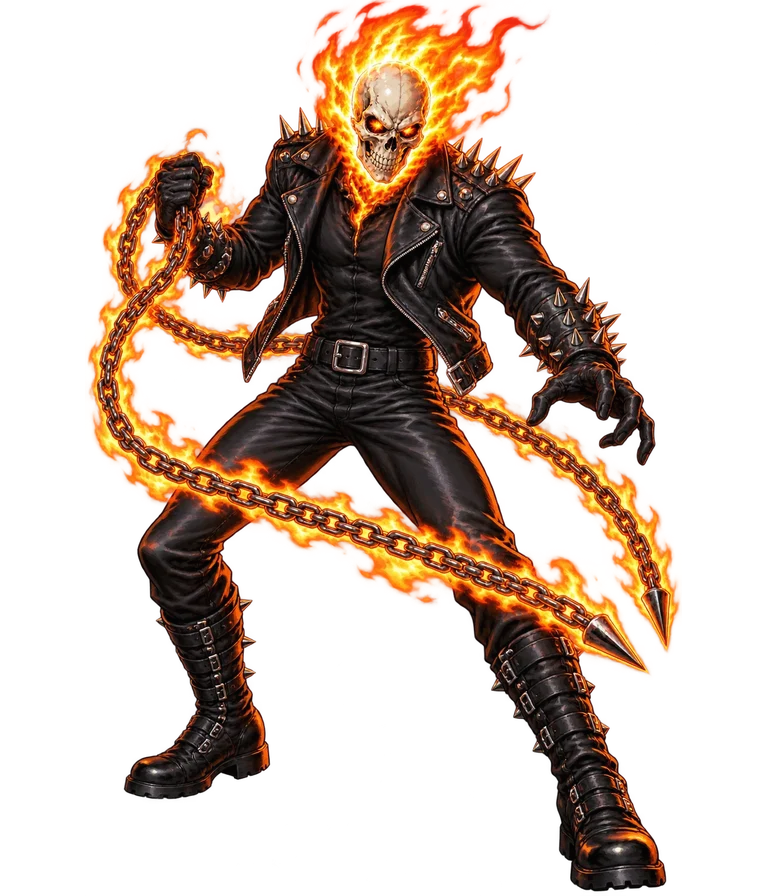
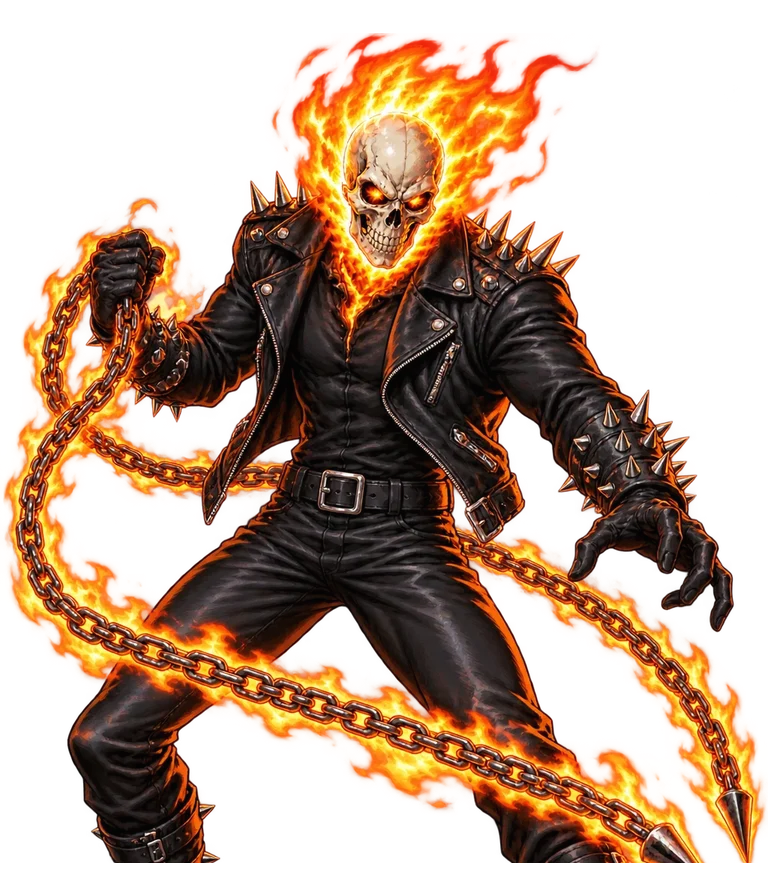
Frame nine portraits closer for game cards

diff --git a/tools/portraits/optimize_portraits.py b/tools/portraits/optimize_portraits.py
@@ -8,6 +8,19 @@ SOURCE = ROOT / "assets/portraits/source"
 OUTPUT = ROOT / "public/assets/portraits"
 ORIGINALS = ("goku", "vegeta", "naruto", "sasuke", "luffy", "gojo", "light", "saitama")
 GENERATED = sorted(path.stem for path in SOURCE.glob("*.webp"))
+# Tall full-figure illustrations are framed at the waist for the small game cards.
+# Keep the untouched source so each crop can be revised independently.
+UPPER_BODY_CROP = {
+    "alphonse": .78,
+    "edward": .78,
+    "eren": .82,
+    "ghostrider": .72,
+    "gon": .77,
+    "kaiba": .76,
+    "loid": .73,
+    "punisher": .68,
+    "yor": .76,
+}
 
 for name in GENERATED:
     source = SOURCE / f"{name}.webp"
@@ -16,6 +29,8 @@ for name in GENERATED:
         if name in ORIGINALS:
             portrait = rgba.resize((768, 896), Image.Resampling.LANCZOS)
         else:
+            if name in UPPER_BODY_CROP:
+                rgba = rgba.crop((0, 0, rgba.width, round(rgba.height * UPPER_BODY_CROP[name])))
             artwork = ImageOps.contain(rgba, (768, 896), Image.Resampling.LANCZOS)
             portrait = Image.new("RGBA", (768, 896))
             portrait.alpha_composite(artwork, ((768 - artwork.width) // 2, (896 - artwork.height) // 2))
